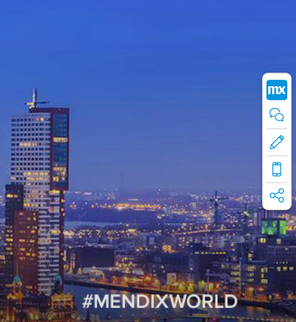
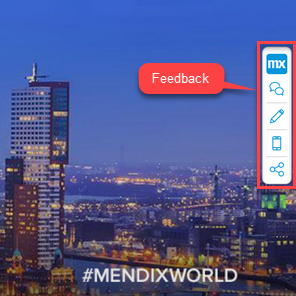
Update for community release

diff --git a/content/developerportal/howto/use-collaboration-widget.md b/content/developerportal/howto/use-collaboration-widget.md
@@ -8,13 +8,15 @@ tags: ["Collaboration","Widget","Developer Portal", "Event App"]
 
 ## 1 Introduction
 
-The new Mendix Collaboration Widget enables you to collaborate more easily and quickly then ever before when developing an app project. With this widget, you make use of the fully integrated feedback cycle functionality as well as access editing capabilities in the Web Modeler, view the app you are working on via the Mendix mobile app on your phone, and share the app.
+The new Mendix Collaboration Widget enables you to collaborate more easily and quickly then ever before when developing an app project. With this widget, you make use of the fully integrated feedback cycle functionality as well as access editing capabilities in the Web Modeler, preview the app you are working on via the Mendix mobile app, and share the app.
 
 ![](attachments/collab-widget/widget.png)
 
+**[TAKE NEW SCREENSHOT, NO RED BOX, JUST LABELS]**
+
 **This how-to will teach you how to do the following:**
 
-* Use the widget for leaving feedback on the app, editing the app, viewing the app on your phone, and sharing the app
+* Use the widget for leaving feedback on an app, editing an app, get a mobile preview of an app, and sharing an app
 * Configure the Mendix Collaboration Widget
 
 ## 2 Prerequisites
@@ -23,9 +25,9 @@ Before starting this how-to, make sure you have completed the following prerequi
 
 * Create an app containing a working application model
 
-## 3 Commenting & Feedback
+## 3 Leaving Feedback on an App
 
-When you click the comment & feedback icon, the platform checks if you are signed in first. If you are already signed in, you will be in **Feedback Mode** right away. If you are not signed in, to enter the in **Feedback Mode** you will need to either sign in (although you do not have to enter your name on the feedback) **[VERIFY: ACCURATE, HOW WORKS?]** or continue as a guest.
+When you click the **Feedback** icon, the platform checks if you are signed in first. If you are already signed in, you will be in **Feedback Mode** right away. If you are not signed in, to enter the in **Feedback Mode** you will need to either sign in (although you do not have to enter your name on the feedback) **[VERIFY: ACCURATE, HOW WORKS?]** or continue as a guest.
 
 ![](attachments/collab-widget/feedback-mode.png)
 
@@ -33,13 +35,34 @@ Once you are in Feedback Mode, you can click anywhere on the screen to leave a c
 
 ![](attachments/collab-widget/add-comment.png)
 
-And voila! Your feedback will go straight to the **Feedback** page of your app project in the Developer Portal. For more information, see the [Processing Feedback in the Developer Portal](https://docs.mendix.com/developerportal/howto/gathering-user-feedback#6-processing-feedback-in-the-developer-portal) section of *How to Use the Mendix Feedback Widget*.
-**[ADD ANCHOR, FIX LINK]**
+And voila! Your feedback will go straight to the **Feedback** page of your app project in the Developer Portal. For more information, see the [Reviewing Feedback in the Developer Portal](gathering-user-feedback#reviewing) section of *How to Use the Mendix Feedback Widget*.
 
 ## 4 Editing
 
+**[WHAT TO DESCRIBE HERE? NO FLOW IN INVISION]**
+
 ## 5 Phone Icon
+
+When you click the **Mobile share** (phone) icon on the widget, a pop-up window will be displayed that allows you to see how  your app will look inside a PhoneGap wrapper:
+
+![](attachments/collab-widget/view-app.png)
+
+You can gain this mobile view by installing the [Mendix mobile app](https://play.google.com/store/apps/details?id=com.mendix.SprintrMobile) on your device and then scanning the QR code in the pop-up window. The app you are working on will then be displayed on your mobile device.
+
+For more information, see [Getting the Mendix Mobile App](/refguide/getting-the-mendix-app) and [Developing Hybrid Mobile Apps](/refguide/developing-hybrid-mobile-apps).
+
+**[NEED TO DOCUMENT SHARING VIA MOBILE APP - IS THAT PART OF YOUR RELEASE? https://mendix.invisionapp.com/share/R4O41LO83GQ#/screens/316047631]**
 
 ## 6 Sharing
 
+When you click the **Share**icon on the widget, a pop-up window will appear for sharing your app via **Email**, **URL**, or **Text Message**:
+
+![](attachments/collab-widget/share.png)
+
+You can add as many email addresses as you like and write a personal note to be included with your emails.
+
+**[HOW DOES IT WORK SHARING VIA URL? TEXT MESSAGE?]**
+
 ## 7 Configuring the Collaboration Widget
+
+**[CAN CONFIGURE WIDGET IN YOUR APP PROJECT - CAN TRY? NEED INPUT FROM JELTE]**

diff --git a/content/developerportal/howto/gathering-user-feedback.md b/content/developerportal/howto/gathering-user-feedback.md
@@ -63,9 +63,11 @@ When a user is logged into the app, the **Feedback** button will appear on the r
 
 ![](attachments/collaborate/18580450.png)
 
-## 6 Processing Feedback in the Developer Portal
+## 6 Reviewing Feedback in the Developer Portal {#reviewing}
 
 Once you have received feedback, you and your team can process the feedback within the Developer Portal.
+
+### 6.1 Processing Feedback
 
 To process the feedback, follow these steps:
 
@@ -83,7 +85,7 @@ To process the feedback, follow these steps:
 
     Action | Description
     | --- | --- |
-    **Accept feedback** | Clicking this option signifies the feedback is valid and that you want to add a story to your backlog on the basis of the feedback (for more information, see [6.1 Adding a Feedback Story to Your Backlog](#6.1))
+    **Accept feedback** | Clicking this option signifies the feedback is valid and that you want to add a story to your backlog on the basis of the feedback (for more information, see [Adding a Feedback Story to Your Backlog](#adding) below)
     **Mark 'Under review'** | Notifies the user who submitted the feedback and your team that the item is under review.
     **Mark as handled** | Changes the status of the item from open to handled so that the item will not pollute your open items list.
     **Close feedback** | Closes the feedback item (for example, when it is already solved or a duplicate has already been accepted).
@@ -92,7 +94,7 @@ To process the feedback, follow these steps:
     **Move to app** | Moves the item to another app to which you have access.
     **Delete feedback** | Deletes the feedback.
 
-### 6.1 Adding a Feedback Story to Your Backlog<a name="6.1"></a>
+### 6.2 Adding a Feedback Story to Your Backlog {#adding}
 
 After clicking **Accept feedback**, you can create a story on the basis of the feedback item and add it to your backlog. To do that, follow these steps:
 
